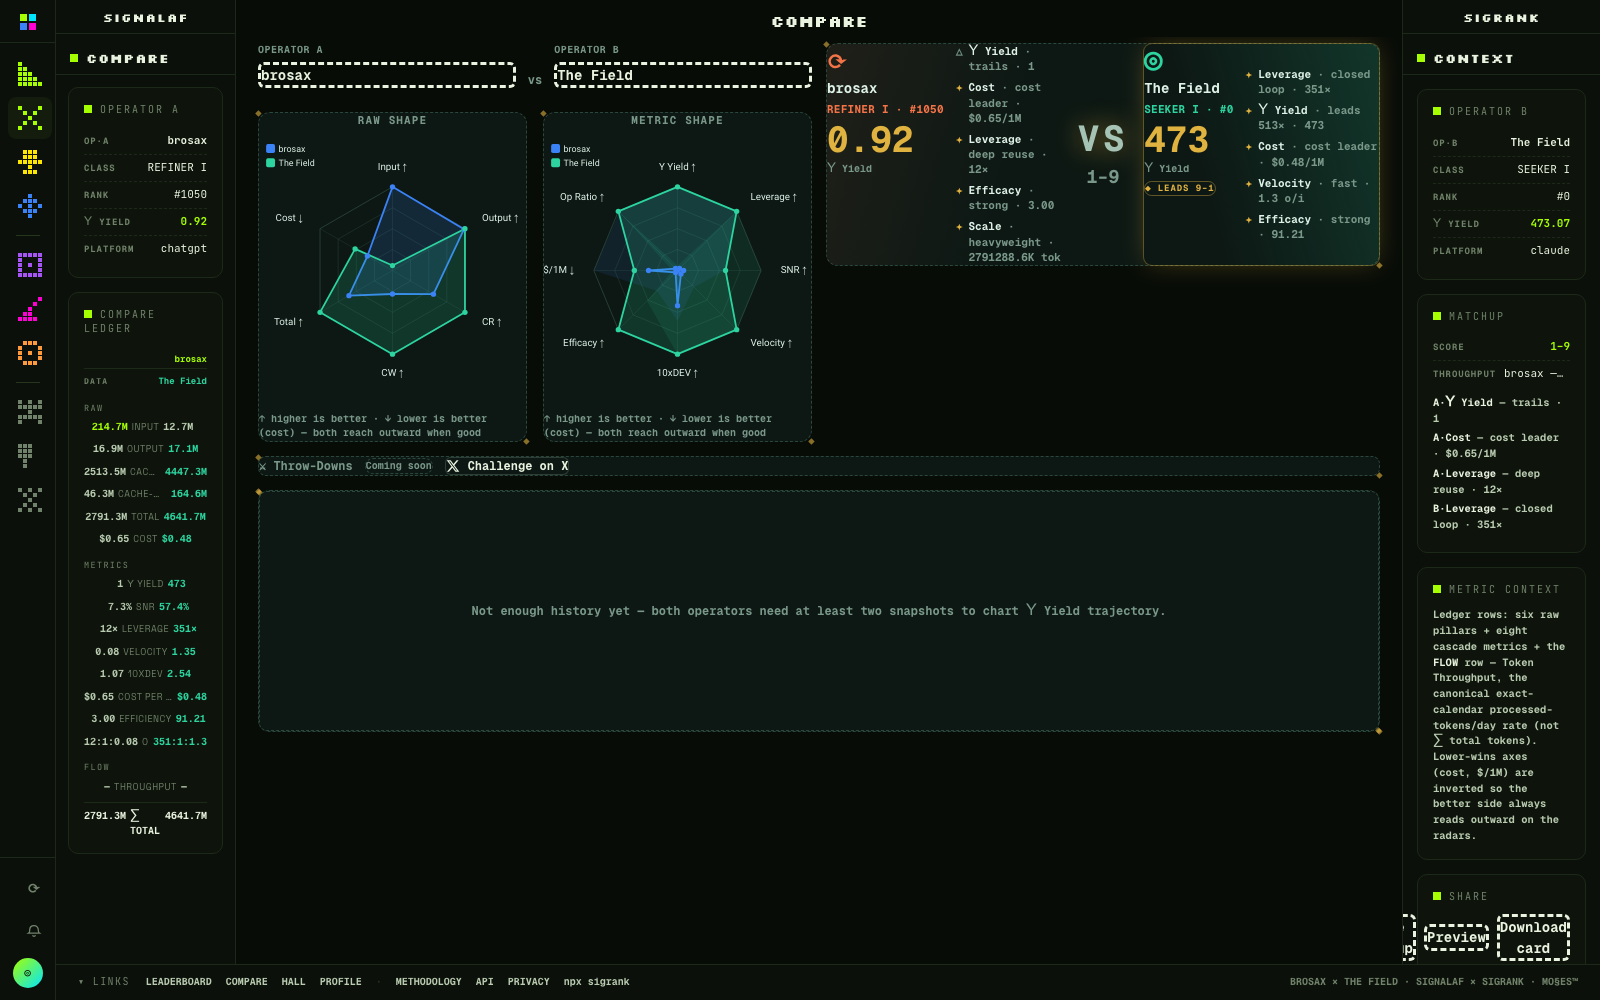
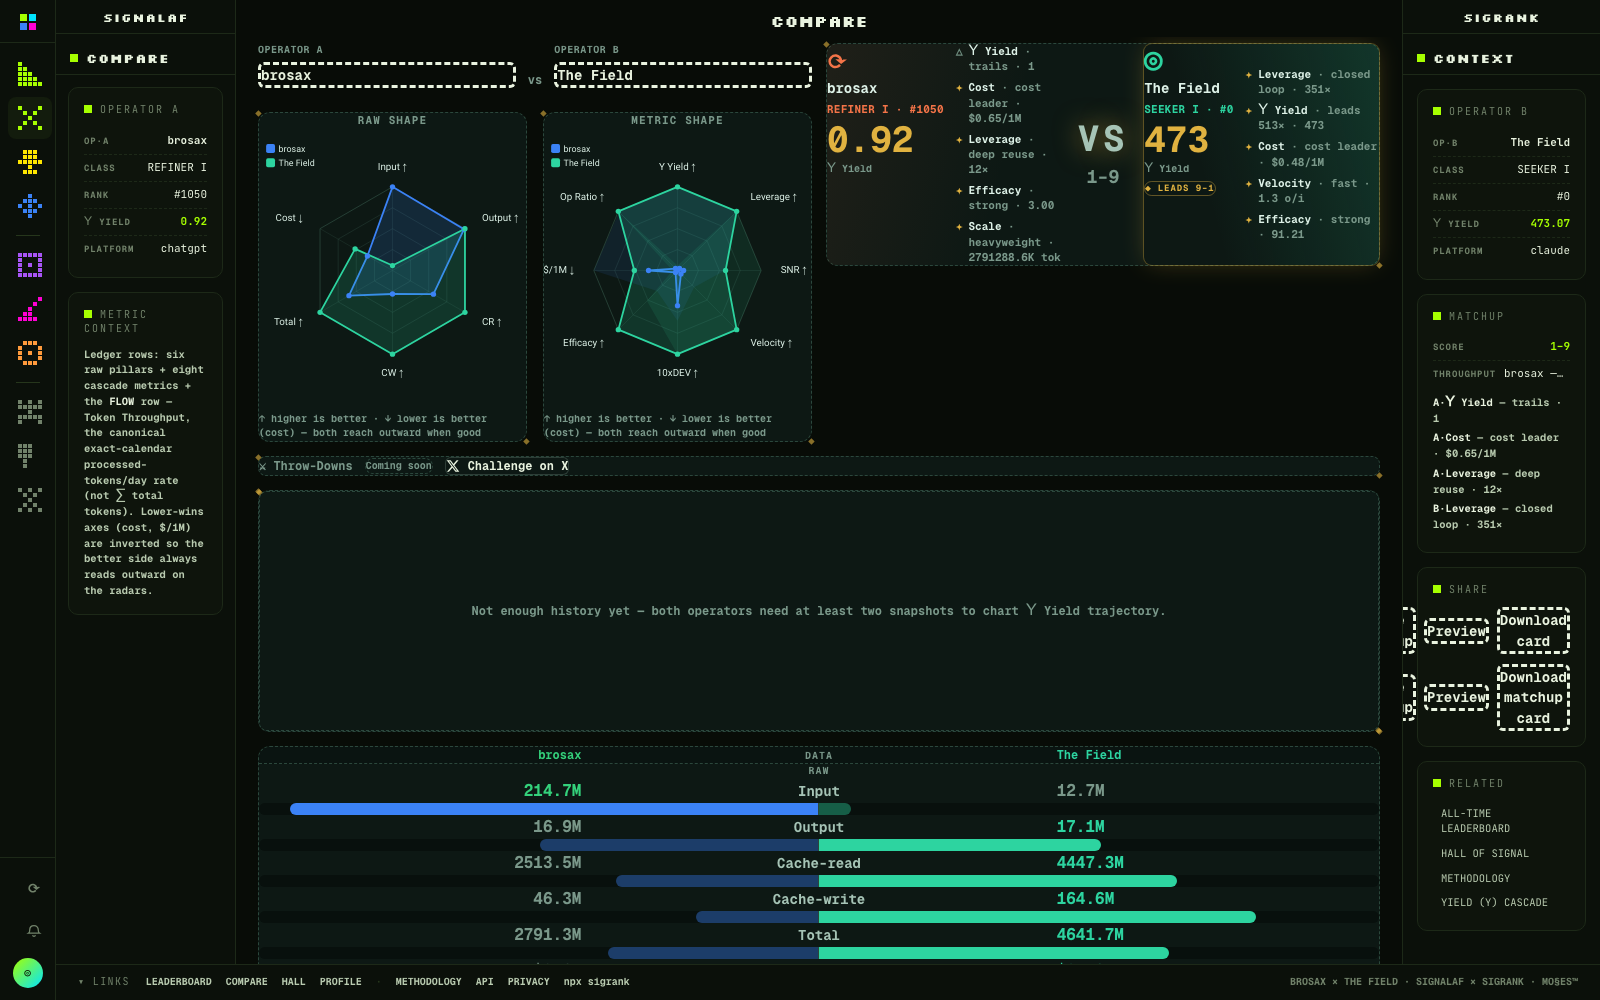
feat(workspace): shell /wiki/* subpages via WikiEntry + TopicPage wrappers
One-edit-per-wrapper transfer — all ~13 WikiEntry routes and 6 TopicPage
routes land in the four-column shell without touching per-route files.

WikiEntry: title moves to the shell pagetitle strip (single h1 preserved),
breadcrumb/category path becomes ENTRY rail (left), META + CROSS-REFERENCES
move to the SIGNAL rail (right) — page-exit links live in the shell per
owner direction. Sections 1–11 render unchanged in the stage.

TopicPage: INDEX rail (wiki + sibling topics), children render their own
in-content h1 so the shell pagetitle strip is omitted (no duplicate h1).

tsc 0 errors · canonical 11/11 · eslint clean on touched files.
Screenshots: wiki-entry + wiki-topic @1600x1000/1440x900.

Generated with [Devin](https://devin.ai)

diff --git a/components/wiki/WikiEntry.tsx b/components/wiki/WikiEntry.tsx
@@ -17,6 +17,7 @@
 import React from "react";
 import Link from "next/link";
 import { EvidenceBadge } from "./EvidenceBadge";
+import { WorkspaceShell } from "@/components/live/WorkspaceShell";
 import { wikiCategoryById, wikiCategoryHubAnchor, type WikiCategory } from "@/lib/wiki/evidence-ladder";
 
 export interface WikiCrossRef {
@@ -97,43 +98,80 @@ export function WikiEntry({
   );
 
   return (
-    <div className="mx-auto flex max-w-3xl flex-col gap-6 py-2">
-      {/* Breadcrumb */}
-      <nav className="flex items-center gap-2 font-mono text-xs text-text-muted">
-        <Link href="/wiki" className="transition-colors hover:text-text-primary">
-          Wiki
-        </Link>
-        {cat && (
-          <>
-            <span className="text-text-dim">/</span>
-            <Link
-              href={`/wiki#${wikiCategoryHubAnchor(category)}`}
-              className="transition-colors hover:text-text-primary"
-            >
-              {cat.label}
-            </Link>
-          </>
-        )}
-      </nav>
-
-      {/* Header: title + evidence badge */}
-      <header className="flex flex-col gap-3">
-        <div className="flex flex-wrap items-center gap-3">
-          <h1 className="font-mono text-3xl font-bold tracking-wide text-text-primary sm:text-4xl">
-            {title}
-          </h1>
-          <EvidenceBadge level={evidenceLevel} />
-        </div>
-        <p className="max-w-2xl font-sans text-base leading-relaxed text-text-secondary">
-          {summary}
-        </p>
-        {(lastUpdated || specVersion) && (
-          <div className="flex flex-wrap gap-3 font-mono text-[11px] text-text-dim">
-            {lastUpdated && <span>Last updated: {lastUpdated}</span>}
-            {specVersion && <span>Spec: {specVersion}</span>}
+    <WorkspaceShell
+      active="wiki"
+      title={title}
+      leftTitle="ENTRY"
+      left={
+        <>
+          <div className="mod">
+            <div className="mini-h"><span className="sq"></span>INDEX</div>
+            <nav className="ws-nav">
+              <Link href="/wiki">← Wiki</Link>
+              {cat && (
+                <Link href={`/wiki#${wikiCategoryHubAnchor(category)}`}>
+                  {cat.label}
+                </Link>
+              )}
+            </nav>
           </div>
-        )}
-      </header>
+          <div className="mod">
+            <div className="mini-h"><span className="sq"></span>PATH</div>
+            <div className="ws-kv">
+              <div className="row"><span className="k">wiki</span><span className="v">/wiki</span></div>
+              {cat && (
+                <div className="row"><span className="k">section</span><span className="v">{cat.label}</span></div>
+              )}
+              <div className="row"><span className="k">entry</span><span className="v acc">{title}</span></div>
+            </div>
+          </div>
+        </>
+      }
+      rightTitle="SIGNAL"
+      right={
+        <>
+          <div className="mod">
+            <div className="mini-h"><span className="sq"></span>META</div>
+            <div style={{ marginBottom: 8 }}>
+              <EvidenceBadge level={evidenceLevel} />
+            </div>
+            {(lastUpdated || specVersion) && (
+              <div className="ws-kv">
+                {lastUpdated && (
+                  <div className="row"><span className="k">updated</span><span className="v">{lastUpdated}</span></div>
+                )}
+                {specVersion && (
+                  <div className="row"><span className="k">spec</span><span className="v">{specVersion}</span></div>
+                )}
+              </div>
+            )}
+          </div>
+          {crossRefs && crossRefs.length > 0 && (
+            <div className="mod">
+              <div className="mini-h"><span className="sq"></span>CROSS-REFERENCES</div>
+              <nav className="ws-nav">
+                {crossRefs.map((ref, i) => (
+                  <Link key={i} href={ref.href}>→ {ref.label}</Link>
+                ))}
+              </nav>
+            </div>
+          )}
+        </>
+      }
+      leftWidth={220}
+      rightWidth={240}
+      status={<>SIGNALAF WIKI · EVIDENCE LAYER{cat ? ` · ${cat.label.toUpperCase()}` : ""}</>}
+    >
+      <div className="ws-doc">
+        <div className="mx-auto flex max-w-3xl flex-col gap-6 py-2">
+          {/* Header: evidence badge + summary (title renders in the shell
+              pagetitle strip as the page h1) */}
+          <header className="flex flex-col gap-3">
+            <EvidenceBadge level={evidenceLevel} />
+            <p className="max-w-2xl font-sans text-base leading-relaxed text-text-secondary">
+              {summary}
+            </p>
+          </header>
 
       {/* 1. Definition */}
       <Section label="Definition">{definition}</Section>
@@ -167,37 +205,8 @@ export function WikiEntry({
 
       {/* 11. Lineage */}
       {lineage && <Section label="Lineage">{lineage}</Section>}
-
-      {/* Cross-references */}
-      {crossRefs && crossRefs.length > 0 && (
-        <section className="flex flex-col gap-2">
-          <h2 className="font-mono text-sm font-bold uppercase tracking-wide text-text-accent">
-            Cross-references
-          </h2>
-          <ul className="flex flex-col gap-1">
-            {crossRefs.map((ref, i) => (
-              <li key={i}>
-                <Link
-                  href={ref.href}
-                  className="font-mono text-xs text-text-accent underline-offset-2 hover:underline"
-                >
-                  → {ref.label}
-                </Link>
-              </li>
-            ))}
-          </ul>
-        </section>
-      )}
-
-      {/* Footer */}
-      <div className="mt-4 border-t border-bg-border-subtle pt-4">
-        <Link
-          href="/wiki"
-          className="font-mono text-xs text-text-accent underline-offset-2 hover:underline"
-        >
-          ← Back to the Wiki
-        </Link>
+        </div>
       </div>
-    </div>
+    </WorkspaceShell>
   );
 }

diff --git a/components/wiki/TopicPage.tsx b/components/wiki/TopicPage.tsx
@@ -12,30 +12,31 @@
 
 import React from "react";
 import Link from "next/link";
+import { WorkspaceShell } from "@/components/live/WorkspaceShell";
 
-export function TopicPage({ children, title }: { children: React.ReactNode; title?: string }) {
+export function TopicPage({ children }: { children: React.ReactNode; title?: string }) {
   return (
-    <div className="mx-auto flex max-w-3xl flex-col gap-6 py-2">
-      <Link
-        href="/wiki"
-        className="w-fit font-mono text-xs uppercase tracking-wide text-text-muted transition-colors hover:text-text-primary"
-      >
-        ← Wiki
-      </Link>
-      {title && (
-        <h1 className="font-mono text-3xl font-bold tracking-wide text-text-primary sm:text-4xl md:text-5xl">
-          {title}
-        </h1>
-      )}
-      {children}
-      <div className="mt-4 border-t border-bg-border-subtle pt-4">
-        <Link
-          href="/wiki"
-          className="font-mono text-xs text-text-accent underline-offset-2 hover:underline"
-        >
-          ← Back to the Wiki
-        </Link>
+    <WorkspaceShell
+      active="wiki"
+      leftTitle="ENTRY"
+      left={
+        <div className="mod">
+          <div className="mini-h"><span className="sq"></span>INDEX</div>
+          <nav className="ws-nav">
+            <Link href="/wiki">← Wiki</Link>
+            <Link href="/wiki/verification">Verification &amp; integrity</Link>
+            <Link href="/wiki/four-degrees">Four degrees of leverage</Link>
+          </nav>
+        </div>
+      }
+      leftWidth={220}
+      status={<>SIGNALAF WIKI · TOPIC PROOF · MO§ES™</>}
+    >
+      <div className="ws-doc">
+        <div className="mx-auto flex max-w-3xl flex-col gap-6 py-2">
+          {children}
+        </div>
       </div>
-    </div>
+    </WorkspaceShell>
   );
 }
